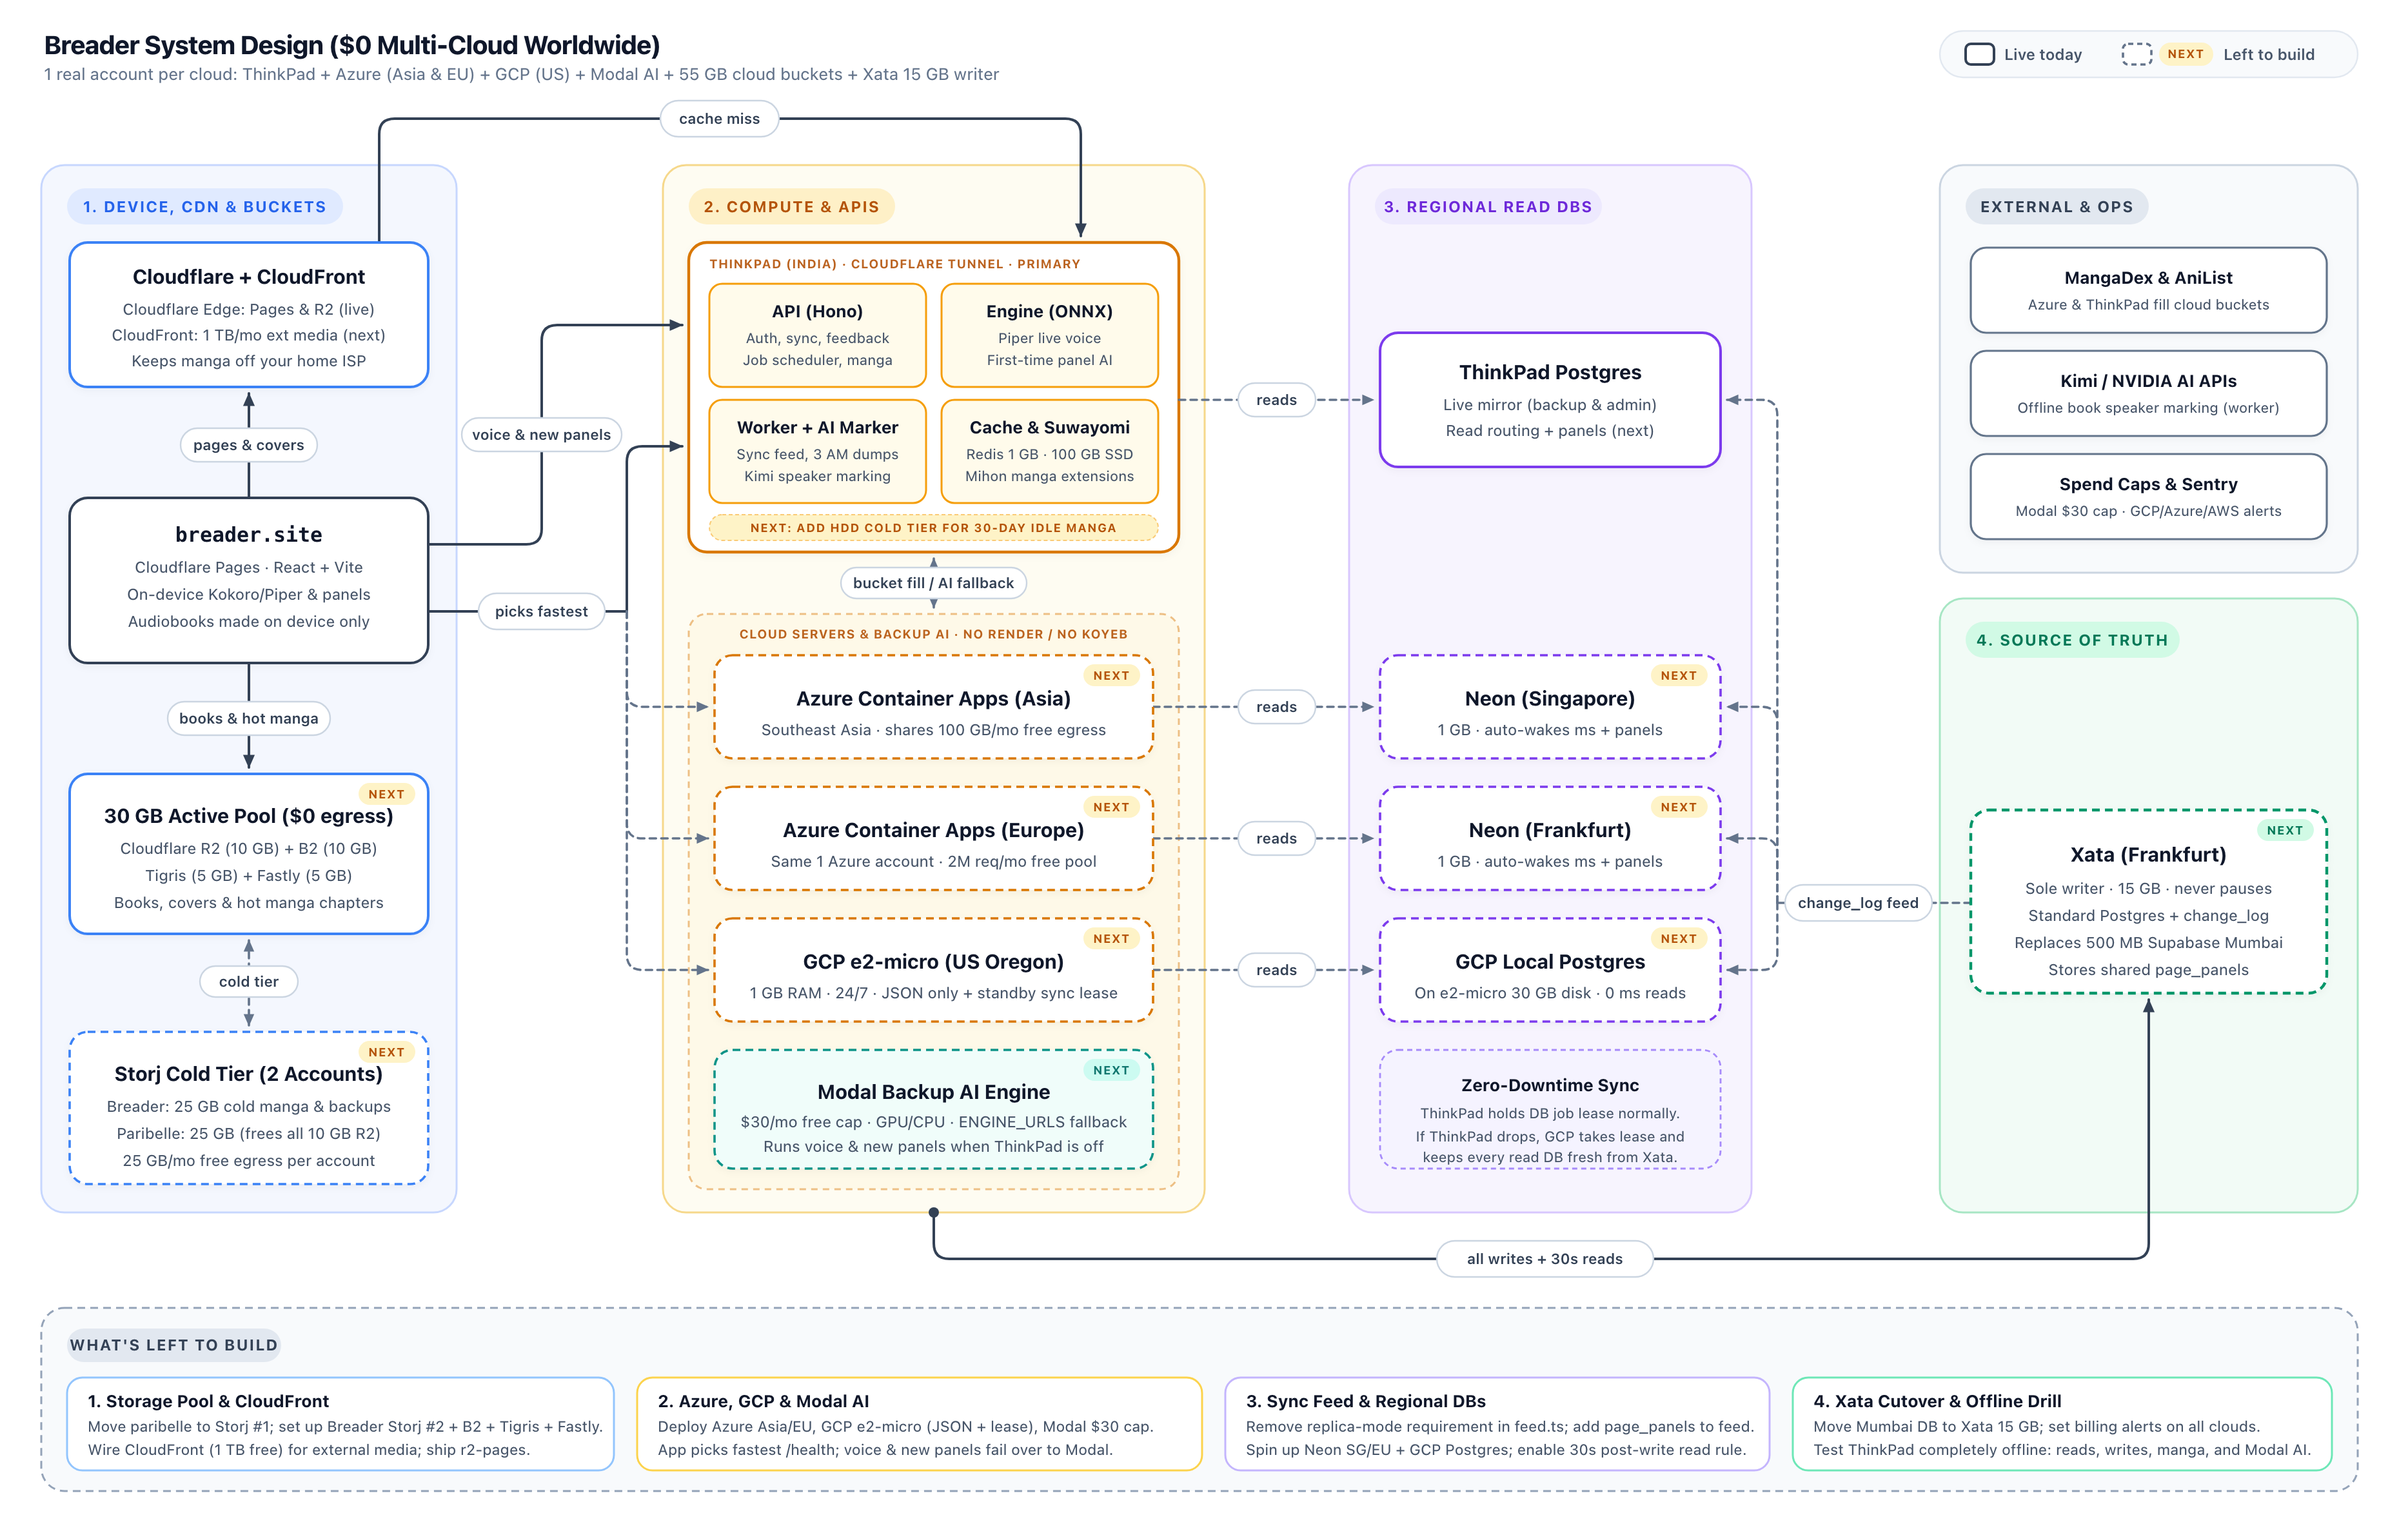
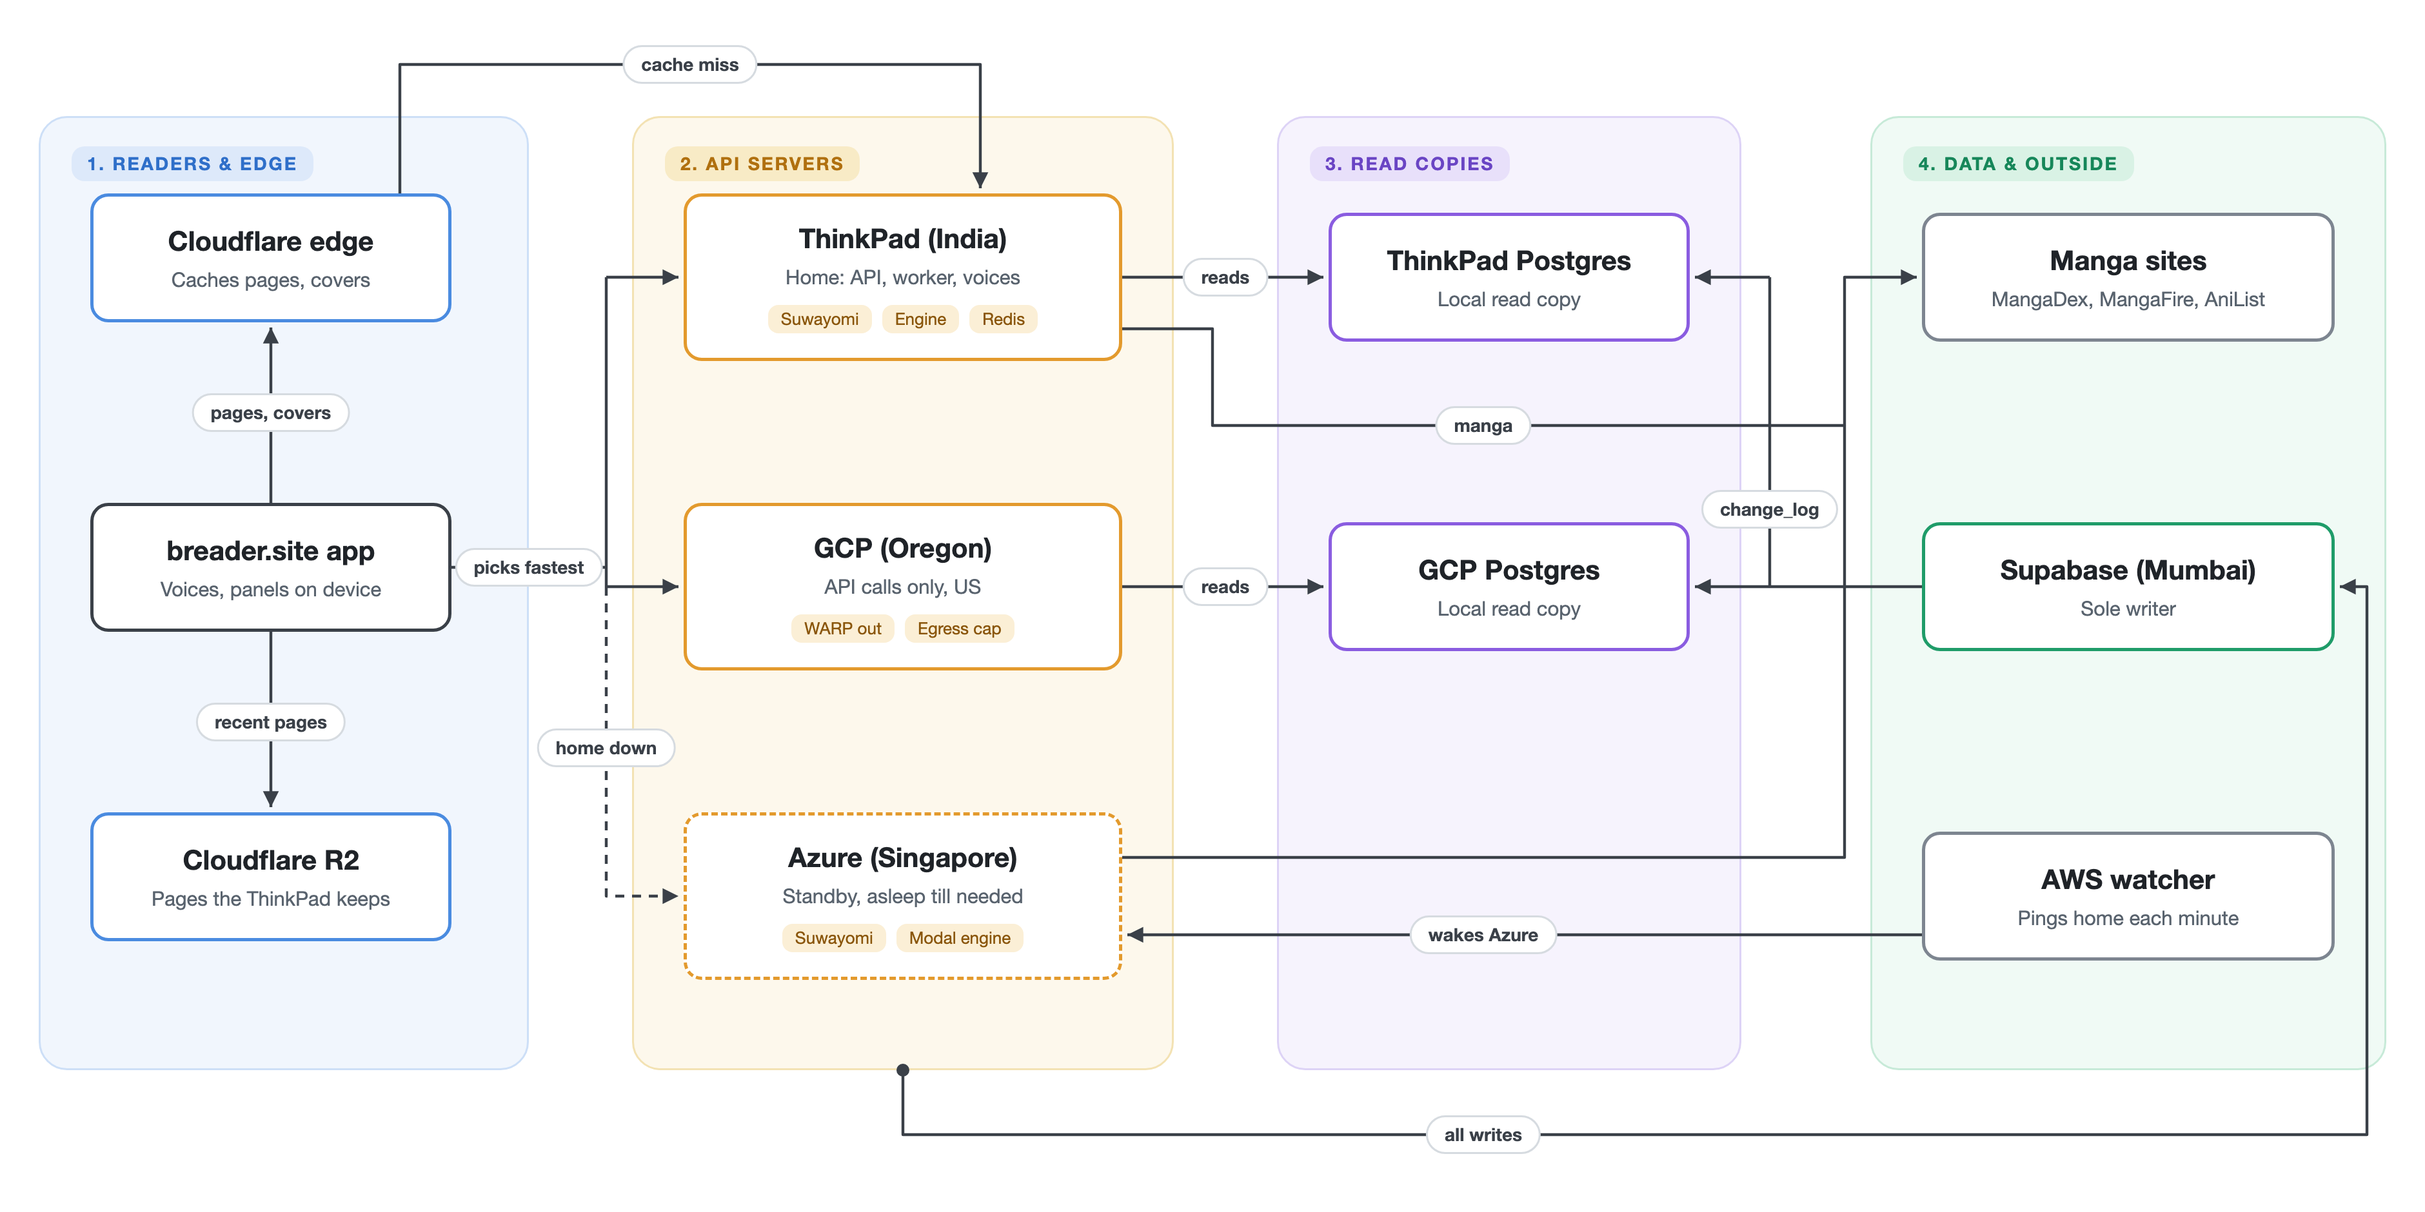
docs: system design diagram as HTML and PNG

diff --git a/docs/system-design.html b/docs/system-design.html
@@ -1,0 +1,87 @@
+<!doctype html>
+<html>
+<head>
+<meta charset="utf-8">
+<title>Breader system design</title>
+<style>
+  * { box-sizing: border-box; margin: 0; }
+  body { width: 1880px; height: 940px; background: #fff; font-family: -apple-system, "Helvetica Neue", Arial, sans-serif; color: #1f2328; position: relative; }
+  .panel { position: absolute; top: 90px; height: 740px; border-radius: 22px; border: 1.5px solid; }
+  .tag { position: absolute; top: 22px; left: 24px; padding: 5px 12px; border-radius: 10px; font-size: 14px; font-weight: 700; letter-spacing: 1.4px; }
+  .blue { background: #f1f6fd; border-color: #cddff7; } .blue .tag { background: #dde9fa; color: #2f6fc9; }
+  .amber { background: #fdf8ec; border-color: #f3e2b3; } .amber .tag { background: #f8ebc6; color: #b0700f; }
+  .purple { background: #f6f3fd; border-color: #ddd3f6; } .purple .tag { background: #e8e0fa; color: #6a45c4; }
+  .green { background: #f0faf5; border-color: #c7ead8; } .green .tag { background: #d9f2e5; color: #17875a; }
+  .box { position: absolute; background: #fff; border: 2.5px solid; border-radius: 14px; display: flex; flex-direction: column; align-items: center; justify-content: center; text-align: center; gap: 8px; }
+  .box b { font-size: 21px; } .box span { font-size: 15.5px; color: #59636e; }
+  .b-blue { border-color: #4a8be0; } .b-amber { border-color: #e39a2d; } .b-purple { border-color: #8a5ce0; }
+  .b-green { border-color: #1f9c69; } .b-gray { border-color: #7d8590; } .b-dark { border-color: #3a4048; }
+  .chips { display: flex; gap: 8px; margin-top: 4px; }
+  .chip { font-size: 13px; padding: 3px 10px; border-radius: 8px; background: #fbefd6; color: #8a560b; }
+  .pill { position: absolute; transform: translate(-50%, -50%); background: #fff; border: 1.5px solid #d6dbe0; border-radius: 16px; padding: 5px 13px; font-size: 14px; font-weight: 600; color: #3a4048; white-space: nowrap; }
+  svg { position: absolute; inset: 0; }
+</style>
+</head>
+<body>
+<div class="panel blue" style="left:30px;width:380px"><div class="tag">1. READERS &amp; EDGE</div></div>
+<div class="panel amber" style="left:490px;width:420px"><div class="tag">2. API SERVERS</div></div>
+<div class="panel purple" style="left:990px;width:360px"><div class="tag">3. READ COPIES</div></div>
+<div class="panel green" style="left:1450px;width:400px"><div class="tag">4. DATA &amp; OUTSIDE</div></div>
+
+<svg width="1880" height="940" viewBox="0 0 1880 940">
+  <defs>
+    <marker id="a" viewBox="0 0 10 10" refX="9" refY="5" markerWidth="7" markerHeight="7" orient="auto-start-reverse">
+      <path d="M1 1L9 5L1 9z" fill="#3a4048"/>
+    </marker>
+  </defs>
+  <g fill="none" stroke="#3a4048" stroke-width="2.2" stroke-linejoin="round">
+    <path d="M310 150V50H760V146" marker-end="url(#a)"/>
+    <path d="M210 390V254" marker-end="url(#a)"/>
+    <path d="M210 490V626" marker-end="url(#a)"/>
+    <path d="M350 440H470"/>
+    <path d="M470 215V455"/>
+    <path d="M470 215H526" marker-end="url(#a)"/>
+    <path d="M470 455H526" marker-end="url(#a)"/>
+    <path d="M470 455V695H526" stroke-dasharray="7 6" marker-end="url(#a)"/>
+    <path d="M870 215H1026" marker-end="url(#a)"/>
+    <path d="M870 455H1026" marker-end="url(#a)"/>
+    <path d="M1490 455H1372"/>
+    <path d="M1372 215V455"/>
+    <path d="M1372 215H1314" marker-end="url(#a)"/>
+    <path d="M1372 455H1314" marker-end="url(#a)"/>
+    <path d="M870 255H940V330H1430V215H1486" marker-end="url(#a)"/>
+    <path d="M870 665H1430V330"/>
+    <path d="M1490 725H874" marker-end="url(#a)"/>
+    <path d="M700 830V880H1835V455H1814" marker-end="url(#a)"/>
+  </g>
+  <circle cx="700" cy="830" r="5" fill="#3a4048"/>
+</svg>
+
+<div class="box b-blue" style="left:70px;top:150px;width:280px;height:100px"><b>Cloudflare edge</b><span>Caches pages, covers</span></div>
+<div class="box b-dark" style="left:70px;top:390px;width:280px;height:100px"><b>breader.site app</b><span>Voices, panels on device</span></div>
+<div class="box b-blue" style="left:70px;top:630px;width:280px;height:100px"><b>Cloudflare R2</b><span>Pages the ThinkPad keeps</span></div>
+
+<div class="box b-amber" style="left:530px;top:150px;width:340px;height:130px"><b>ThinkPad (India)</b><span>Home: API, worker, voices</span><div class="chips"><div class="chip">Suwayomi</div><div class="chip">Engine</div><div class="chip">Redis</div></div></div>
+<div class="box b-amber" style="left:530px;top:390px;width:340px;height:130px"><b>GCP (Oregon)</b><span>API calls only, US</span><div class="chips"><div class="chip">WARP out</div><div class="chip">Egress cap</div></div></div>
+<div class="box b-amber" style="left:530px;top:630px;width:340px;height:130px;border-style:dashed"><b>Azure (Singapore)</b><span>Standby, asleep till needed</span><div class="chips"><div class="chip">Suwayomi</div><div class="chip">Modal engine</div></div></div>
+
+<div class="box b-purple" style="left:1030px;top:165px;width:280px;height:100px"><b>ThinkPad Postgres</b><span>Local read copy</span></div>
+<div class="box b-purple" style="left:1030px;top:405px;width:280px;height:100px"><b>GCP Postgres</b><span>Local read copy</span></div>
+
+<div class="box b-gray" style="left:1490px;top:165px;width:320px;height:100px"><b>Manga sites</b><span>MangaDex, MangaFire, AniList</span></div>
+<div class="box b-green" style="left:1490px;top:405px;width:320px;height:100px"><b>Supabase (Mumbai)</b><span>Sole writer</span></div>
+<div class="box b-gray" style="left:1490px;top:645px;width:320px;height:100px"><b>AWS watcher</b><span>Pings home each minute</span></div>
+
+<div class="pill" style="left:535px;top:50px">cache miss</div>
+<div class="pill" style="left:210px;top:320px">pages, covers</div>
+<div class="pill" style="left:210px;top:560px">recent pages</div>
+<div class="pill" style="left:410px;top:440px">picks fastest</div>
+<div class="pill" style="left:470px;top:580px">home down</div>
+<div class="pill" style="left:950px;top:215px">reads</div>
+<div class="pill" style="left:950px;top:455px">reads</div>
+<div class="pill" style="left:1372px;top:395px">change_log</div>
+<div class="pill" style="left:1150px;top:330px">manga</div>
+<div class="pill" style="left:1150px;top:725px">wakes Azure</div>
+<div class="pill" style="left:1150px;top:880px">all writes</div>
+</body>
+</html>
